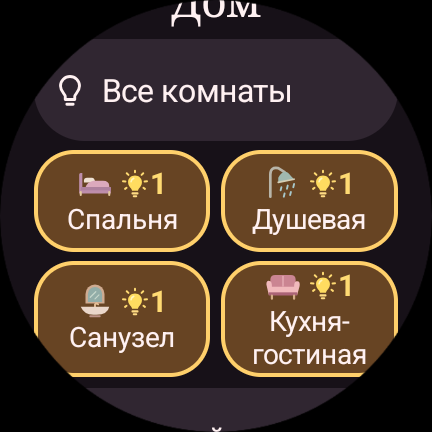
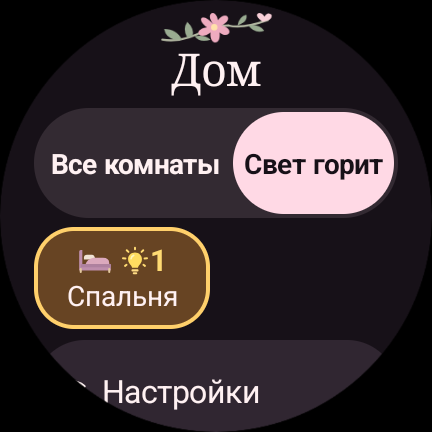
Make the lit-room filter explicit on Wear OS

diff --git a/app/src/main/java/com/galaxywatch/home/RoomFilter.java b/app/src/main/java/com/galaxywatch/home/RoomFilter.java
@@ -1,0 +1,67 @@
+package com.galaxywatch.home;
+
+import android.content.Context;
+import android.content.res.ColorStateList;
+import android.graphics.Typeface;
+import android.graphics.drawable.GradientDrawable;
+import android.graphics.drawable.RippleDrawable;
+import android.graphics.drawable.StateListDrawable;
+import android.view.Gravity;
+import android.view.View;
+import android.widget.RadioButton;
+import android.widget.RadioGroup;
+
+import java.util.function.Consumer;
+
+/** Both room lists use the same two mutually exclusive views. */
+final class RoomFilter extends RadioGroup {
+    RoomFilter(Context context, boolean onlyLit, Consumer<Boolean> onChange) {
+        super(context);
+        setOrientation(HORIZONTAL);
+        setBaselineAligned(false);
+        setPadding(dp(2), dp(2), dp(2), dp(2));
+        setBackground(pill(0xFF332A32));
+
+        RadioButton all = option("Все комнаты", "Показать все комнаты", 1.1f);
+        RadioButton lit = option("Свет горит", "Показать комнаты, где горит свет", .9f);
+        check(onlyLit ? lit.getId() : all.getId());
+        setOnCheckedChangeListener((group, checkedId) -> onChange.accept(checkedId == lit.getId()));
+    }
+
+    private RadioButton option(String label, String description, float weight) {
+        RadioButton button = new RadioButton(getContext());
+        button.setId(View.generateViewId());
+        button.setButtonDrawable(null);
+        button.setGravity(Gravity.CENTER);
+        button.setText(label);
+        button.setContentDescription(description);
+        button.setTextSize(13);
+        button.setTypeface(Typeface.DEFAULT, Typeface.BOLD);
+        button.setMinWidth(0);
+        button.setMinimumWidth(0);
+        button.setMinHeight(dp(48));
+        button.setPadding(dp(3), dp(3), dp(3), dp(3));
+
+        int[] checked = {android.R.attr.state_checked};
+        StateListDrawable fill = new StateListDrawable();
+        fill.addState(checked, pill(CatalogViews.ROSE));
+        fill.addState(new int[0], pill(0x00000000));
+        button.setBackgroundTintList(null);
+        button.setBackground(new RippleDrawable(ColorStateList.valueOf(0x307F6775), fill, pill(0xFFFFFFFF)));
+        button.setTextColor(new ColorStateList(new int[][]{checked, new int[0]},
+            new int[]{CatalogViews.BG, CatalogViews.TEXT}));
+        addView(button, new LayoutParams(0, LayoutParams.MATCH_PARENT, weight));
+        return button;
+    }
+
+    private GradientDrawable pill(int color) {
+        GradientDrawable shape = new GradientDrawable();
+        shape.setColor(color);
+        shape.setCornerRadius(dp(32));
+        return shape;
+    }
+
+    private int dp(int value) {
+        return Math.round(getResources().getDisplayMetrics().density * value);
+    }
+}

diff --git a/app/src/main/java/com/galaxywatch/home/HomeActivity.java b/app/src/main/java/com/galaxywatch/home/HomeActivity.java
@@ -84,7 +84,6 @@ public final class HomeActivity extends Activity {
     private final Runnable saveReadings = this::flushReadings;
     private boolean onlyLit;
     private RoomGrid roomGrid;
-    private Button filterButton;
     private Runnable settingsBack;
     private Boolean vacation;
     private boolean online;
@@ -232,19 +231,17 @@ public final class HomeActivity extends Activity {
         page("Дом", true);
         controls.clear();
         addStatus();
-        filterButton = addButton(onlyLit ? "Все комнаты" : "Где горит", this::toggleRoomFilter, R.drawable.ic_light);
-        filterButton.setSelected(onlyLit);
+        RoomFilter filter = new RoomFilter(this, onlyLit, selected -> {
+            onlyLit = selected;
+            updateRoom();
+        });
+        LinearLayout.LayoutParams filterLayout = new LinearLayout.LayoutParams(LayoutParams.MATCH_PARENT, LayoutParams.WRAP_CONTENT);
+        filterLayout.topMargin = dp(5);
+        body.addView(filter, filterLayout);
         roomGrid = new RoomGrid(this, RoomOverview.favorites(settings), this::showRoom);
         body.addView(roomGrid);
         addButton("Настройки", this::showPreferences, R.drawable.ic_connection);
         groupOff = addEdgeAction(this::confirmAllOff);
-        updateRoom();
-    }
-
-    private void toggleRoomFilter() {
-        onlyLit = !onlyLit;
-        filterButton.setText(onlyLit ? "Все комнаты" : "Где горит");
-        filterButton.setSelected(onlyLit);
         updateRoom();
     }
 
@@ -1013,7 +1010,6 @@ public final class HomeActivity extends Activity {
 
     private TextView page(String title, boolean floral) {
         roomGrid = null;
-        filterButton = null;
         settingsBack = null;
         settingsVisible = false;
         remoteSettingsVisible = false;

diff --git a/app/src/main/java/com/galaxywatch/home/CatalogActivity.java b/app/src/main/java/com/galaxywatch/home/CatalogActivity.java
@@ -472,12 +472,10 @@ public final class CatalogActivity extends Activity {
         } else if (home.rooms.isEmpty() || home.lights.isEmpty()) {
             note(SETUP_HINT);
         } else {
-            Button filter = button(onlyLit ? "Все комнаты" : "Где горит", () -> {
-                onlyLit = !onlyLit;
-                homeScroll = 0;
-                render(Page.HOME);
-            }, R.drawable.ic_light);
-            filter.setSelected(onlyLit);
+            add(new RoomFilter(this, onlyLit, selected -> {
+                onlyLit = selected;
+                updateRooms();
+            }), 5);
             roomRows = new LinearLayout(this);
             roomRows.setOrientation(LinearLayout.VERTICAL);
             add(roomRows, 3);

diff --git a/README.md b/README.md
@@ -6,13 +6,13 @@
 
 ## С чего начать
 
-Готовые файлы лежат в [выпуске 0.8.0](https://github.com/F4ntik/wirenboard-wear-os/releases/tag/v0.8.0). Для своего дома нужны приложение на часах и пакет на контроллере. Для демо достаточно приложения.
+Готовые файлы лежат в [выпуске 0.8.1](https://github.com/F4ntik/wirenboard-wear-os/releases/tag/v0.8.1). Для своего дома нужны приложение на часах и пакет на контроллере. Для демо достаточно приложения.
 
 | Куда установить | Что скачать | Как запустить |
 | --- | --- | --- |
-| На часы с компьютера Windows | [Комплект Windows (.zip)](https://github.com/F4ntik/wirenboard-wear-os/releases/download/v0.8.0/wirenboard-wear-os-0.8.0-windows.zip) | Распакуйте архив и откройте `install_watch.cmd`. APK уже внутри. Нужны Python 3 и команда `adb` из [Android Platform Tools](https://developer.android.com/tools/releases/platform-tools). |
-| На часы с любого компьютера через ADB | [Приложение (.apk)](https://github.com/F4ntik/wirenboard-wear-os/releases/download/v0.8.0/wirenboard-wear-os-0.8.0.apk) | В папке загрузок выполните `adb install -r wirenboard-wear-os-0.8.0.apk`. При обновлении настройки сохранятся. |
-| На контроллер Wiren Board | [Пакет интеграции (.deb)](https://github.com/F4ntik/wirenboard-wear-os/releases/download/v0.8.0/wb-wear-light-gateway_0.2.0_all.deb) | Скопируйте файл на контроллер и установите пакет. [Пошаговая инструкция](remote/README.md#пакет-для-контроллера-wiren-board) |
+| На часы с компьютера Windows | [Комплект Windows (.zip)](https://github.com/F4ntik/wirenboard-wear-os/releases/download/v0.8.1/wirenboard-wear-os-0.8.1-windows.zip) | Распакуйте архив и откройте `install_watch.cmd`. APK уже внутри. Нужны Python 3 и команда `adb` из [Android Platform Tools](https://developer.android.com/tools/releases/platform-tools). |
+| На часы с любого компьютера через ADB | [Приложение (.apk)](https://github.com/F4ntik/wirenboard-wear-os/releases/download/v0.8.1/wirenboard-wear-os-0.8.1.apk) | В папке загрузок выполните `adb install -r wirenboard-wear-os-0.8.1.apk`. При обновлении настройки сохранятся. |
+| На контроллер Wiren Board | [Пакет интеграции (.deb)](https://github.com/F4ntik/wirenboard-wear-os/releases/download/v0.8.1/wb-wear-light-gateway_0.2.0_all.deb) | Скопируйте файл на контроллер и установите пакет. [Пошаговая инструкция](remote/README.md#пакет-для-контроллера-wiren-board) |
 
 Свою версию приложения можно собрать по [пошаговому руководству от исходников до запуска на часах](docs/build-and-debug.md).
 
@@ -32,7 +32,7 @@
 
 На этом комплекте часы показали те же состояния 11 ламп, что и контроллер. При переключении света через WB Cloud проверили и выключение, и возврат в исходное состояние. Для проверки автоматического выбора сделали локальное подключение недоступным, сохранив интернет. Часы выбрали WB Cloud, а при восстановлении доступа снова показали «Домашняя сеть».
 
-Публичное приложение с первичной привязкой, настройки яркости и цвета проверены на эмуляторе Wear OS с тестовым контроллером. Galaxy Watch 5 на физическом устройстве пока не проверяли.
+На тех же Galaxy Watch6 проверена версия 0.8.1 с переключателем списка комнат. Публичное приложение с первичной привязкой, настройки яркости и цвета проверены на эмуляторе Wear OS с тестовым контроллером. Galaxy Watch 5 на физическом устройстве пока не проверяли.
 
 ## Управление с часов
 
@@ -46,7 +46,7 @@
 
 Если горит одна из остальных комнат, под «Все комнаты» появится её название, например «Ещё горит в душевой». Если таких комнат две или три, появится «Ещё в 2 комнатах» или «Ещё в 3 комнатах». Если по остальным комнатам пришли только выключенные либо неизвестные значения, плитка покажет «Не всё известно», пока остаются неизвестные. Когда все остальные комнаты точно погашены, подпись исчезнет.
 
-В списке комнат нажмите **Где горит**. Вверху останутся комнаты с включёнными лампами. Ниже, отдельно, будут комнаты без полных данных. Кнопка **Все комнаты** вернёт обычный список. Чтобы заменить избранную комнату, откройте **Настройки → Избранные комнаты**, выберите одно из четырёх мест и нужную комнату. Если комната уже на плитке, две комнаты поменяются местами. [Посмотреть фильтр на часах](docs/where-lit.png)
+Над списком можно выбрать **Все комнаты** или **Свет горит**. Розовая плашка показывает, какой список сейчас открыт. Нажмите **Свет горит**, чтобы увидеть комнаты с включёнными лампами. Ниже отдельно появятся комнаты, по которым ещё нет полных данных. Нажмите **Все комнаты**, чтобы вернуться к полному списку. Чтобы заменить избранную комнату, откройте **Настройки → Избранные комнаты**, выберите одно из четырёх мест и нужную комнату. Если комната уже на плитке, две комнаты поменяются местами. [Посмотреть фильтр на часах](docs/where-lit.png)
 
 Плитка хранит последние подтверждённые значения каждой лампы. При запросе плитки часы могут перечитать состояние дома. Через две минуты без подтверждения показание устаревает и перестаёт учитываться. После щелчка настенным выключателем изменение может появиться с задержкой: время обновления системной плитки выбирает Wear OS. В открытом пульте состояния приходят по действующему соединению. [Обновление плиток Wear OS](https://developer.android.com/training/wearables/tiles/update)
 

diff --git a/docs/build-and-debug.md b/docs/build-and-debug.md
@@ -1,6 +1,6 @@
 # Как собрать пульт и запустить его на Galaxy Watch
 
-Здесь весь путь от исходников до первого запуска на Galaxy Watch 5 или 6. Основной пример — для Windows и PowerShell. Если нужен только готовый пульт, скачайте APK из выпуска и установите Android SDK Platform-Tools. Когда команда `adb version` заработает, переходите к разделу «Отладка на часах». Для первой проверки хватит демо. [Готовый APK](https://github.com/F4ntik/wirenboard-wear-os/releases/tag/v0.8.0) · [Скачать Platform-Tools](https://developer.android.com/tools/releases/platform-tools) · [Отладка на часах](#3-отладка-на-часах)
+Здесь весь путь от исходников до первого запуска на Galaxy Watch 5 или 6. Основной пример — для Windows и PowerShell. Если нужен только готовый пульт, скачайте APK из выпуска и установите Android SDK Platform-Tools. Когда команда `adb version` заработает, переходите к разделу «Отладка на часах». Для первой проверки хватит демо. [Готовый APK](https://github.com/F4ntik/wirenboard-wear-os/releases/tag/v0.8.1) · [Скачать Platform-Tools](https://developer.android.com/tools/releases/platform-tools) · [Отладка на часах](#3-отладка-на-часах)
 
 ## 1. Подготовьте компьютер
 

diff --git a/remote/README.md b/remote/README.md
@@ -4,7 +4,7 @@
 
 ## Пакет для контроллера Wiren Board
 
-Скачайте [пакет для Wiren Board (.deb)](https://github.com/F4ntik/wirenboard-wear-os/releases/download/v0.8.0/wb-wear-light-gateway_0.2.0_all.deb) и скопируйте файл на контроллер, например через файловый менеджер WB Cloud. В терминале **контроллера** перейдите в папку с файлом и выполните команду от имени администратора. Если вы вошли как `root`, можно опустить `sudo`.
+Скачайте [пакет для Wiren Board (.deb)](https://github.com/F4ntik/wirenboard-wear-os/releases/download/v0.8.1/wb-wear-light-gateway_0.2.0_all.deb) и скопируйте файл на контроллер, например через файловый менеджер WB Cloud. В терминале **контроллера** перейдите в папку с файлом и выполните команду от имени администратора. Если вы вошли как `root`, можно опустить `sudo`.
 
 ```sh
 sudo apt install ./wb-wear-light-gateway_0.2.0_all.deb

diff --git a/CHANGELOG.md b/CHANGELOG.md
@@ -1,5 +1,11 @@
 # История выпусков
 
+## 0.8.1 · 24 ноября 2026
+
+Над списком комнат одновременно видны «Все комнаты» и «Свет горит». Розовая плашка показывает выбранный режим. Во втором режиме комнаты с включённой лампой собраны сверху, комнаты без полных данных — ниже. При возврате из комнаты сохраняется выбранный режим. Переключатель одинаков в демо и в настроенном доме.
+
+[Файлы выпуска](https://github.com/F4ntik/wirenboard-wear-os/releases/tag/v0.8.1)
+
 ## 0.8.0 · 23 ноября 2026
 
 - Настройка комнат и светильников в интерфейсе Wiren Board. Для каждого светильника можно выбрать выключатель, яркость, цвет и тему кнопки.
